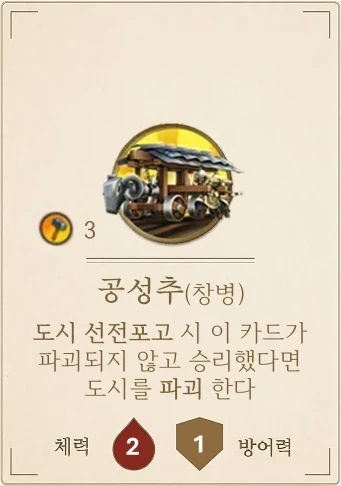
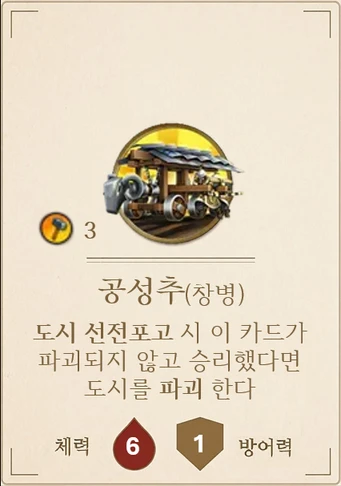
공성추(훈족) 체력 2 → 6
- civs.json 능력치, 카드 그림 교체 (생산은 지금처럼 파이크병까지)
- 능력치 테스트, docs/open-questions.md #55

Claude-Session: https://claude.ai/code/session_01LEwiRiXRJPjckZxHM1aEbm

diff --git a/src/engine/__tests__/uniques.test.ts b/src/engine/__tests__/uniques.test.ts
@@ -67,12 +67,13 @@ describe('고유 유닛 데이터', () => {
     for (const [name, supply] of Object.entries(s.uniqueSupply)) expect(supply, name).toHaveLength(3)
   })
 
-  it('카드에 적힌 능력치를 쓴다 (장갑보병, 케식텐, 낙타궁수, 궁기병, 프라싱야, 화차, 재규어)', () => {
+  it('카드에 적힌 능력치를 쓴다 (장갑보병, 케식텐, 낙타궁수, 궁기병, 공성추, 프라싱야, 화차, 재규어)', () => {
     const st = (name: string) => cardStats({ uid: 0, defId: UNIQUES[name].def.base, unique: name, dirs: ['C'] })
     expect(st('장갑보병')).toMatchObject({ hp: 3, def: 2, marks: [{ dir: 'C', power: 2 }], baseId: 'spearman' })
     expect(st('케식텐')).toMatchObject({ hp: 5, def: 1, choose: 2, noCounter: true, baseId: 'knight' })
     expect(st('낙타궁수')).toMatchObject({ hp: 4, def: 2, choose: 2, noCounter: true, baseId: 'knight' })
     expect(st('궁기병')).toMatchObject({ hp: 3, def: 1, choose: 2, noCounter: true, baseId: 'chariot' })
+    expect(st('공성추')).toMatchObject({ hp: 6, def: 1, siege: true, baseId: 'spearman' })
     expect(st('프라싱야')).toMatchObject({ hp: 6, def: 3, baseId: 'infantry' })
     expect(st('화차')).toMatchObject({ hp: 3, def: 3, noCounter: true, baseId: 'hwacha' })
     expect(st('재규어')).toMatchObject({ hp: 3, def: 0, marks: [{ dir: 'C', power: 1 }], baseId: 'warrior' }) // 체력 4 → 3 (사용자 결정)

diff --git a/docs/open-questions.md b/docs/open-questions.md
@@ -59,6 +59,7 @@
 | 52 | 테르시오(스페인) 전투력 | 사용자 결정(카드 수정): 전투력 3 → 4 (기사·기병대 상대일 때). 기사·기병대가 아닌 상대에게는 전투력 2·방어력 1로 계산하는 효과, 비용 7, 체력 5, 방어력 5는 그대로. 카드 그림 L·C·R의 전투력 칸도 수정 |
 | 53 | 화차(한국) 체력 | 사용자 결정(카드 수정): 체력 2 → 3. 비용 6, 전투력 2, 방어력 3, 반격 안 받음, 자기 원래 타일 전투 때 체력 +2는 그대로. 카드 그림 L·C·R과 재규어 C·R은 사용자가 준 카드 그림으로 교체 |
 | 54 | 궁기병(훈족) 방어력 | 사용자 결정(카드 수정): 방어력 0 → 1. 비용 3, 체력 3, 대상 골라 전투력 2, 반격 안 받음은 그대로. 카드 그림은 사용자가 준 그림으로 교체 |
+| 55 | 공성추(훈족) 체력 | 사용자 결정(카드 수정): 체력 2 → 6 (야포와 비슷한 체력으로 설계). 비용 3, 방어력 1, 도시 파괴 효과는 그대로. 생산은 지금처럼 기초 카드(창병)가 생산불가가 되는 파이크병까지. 카드 그림은 사용자가 준 그림으로 교체 |
 
 ## 공개 범위 (설계 결정)
 - 공개: 타일·기술·정책·불가사의·군사 카드 **장수**, 로그에 남는 "무엇을 생산·승급했는지".
